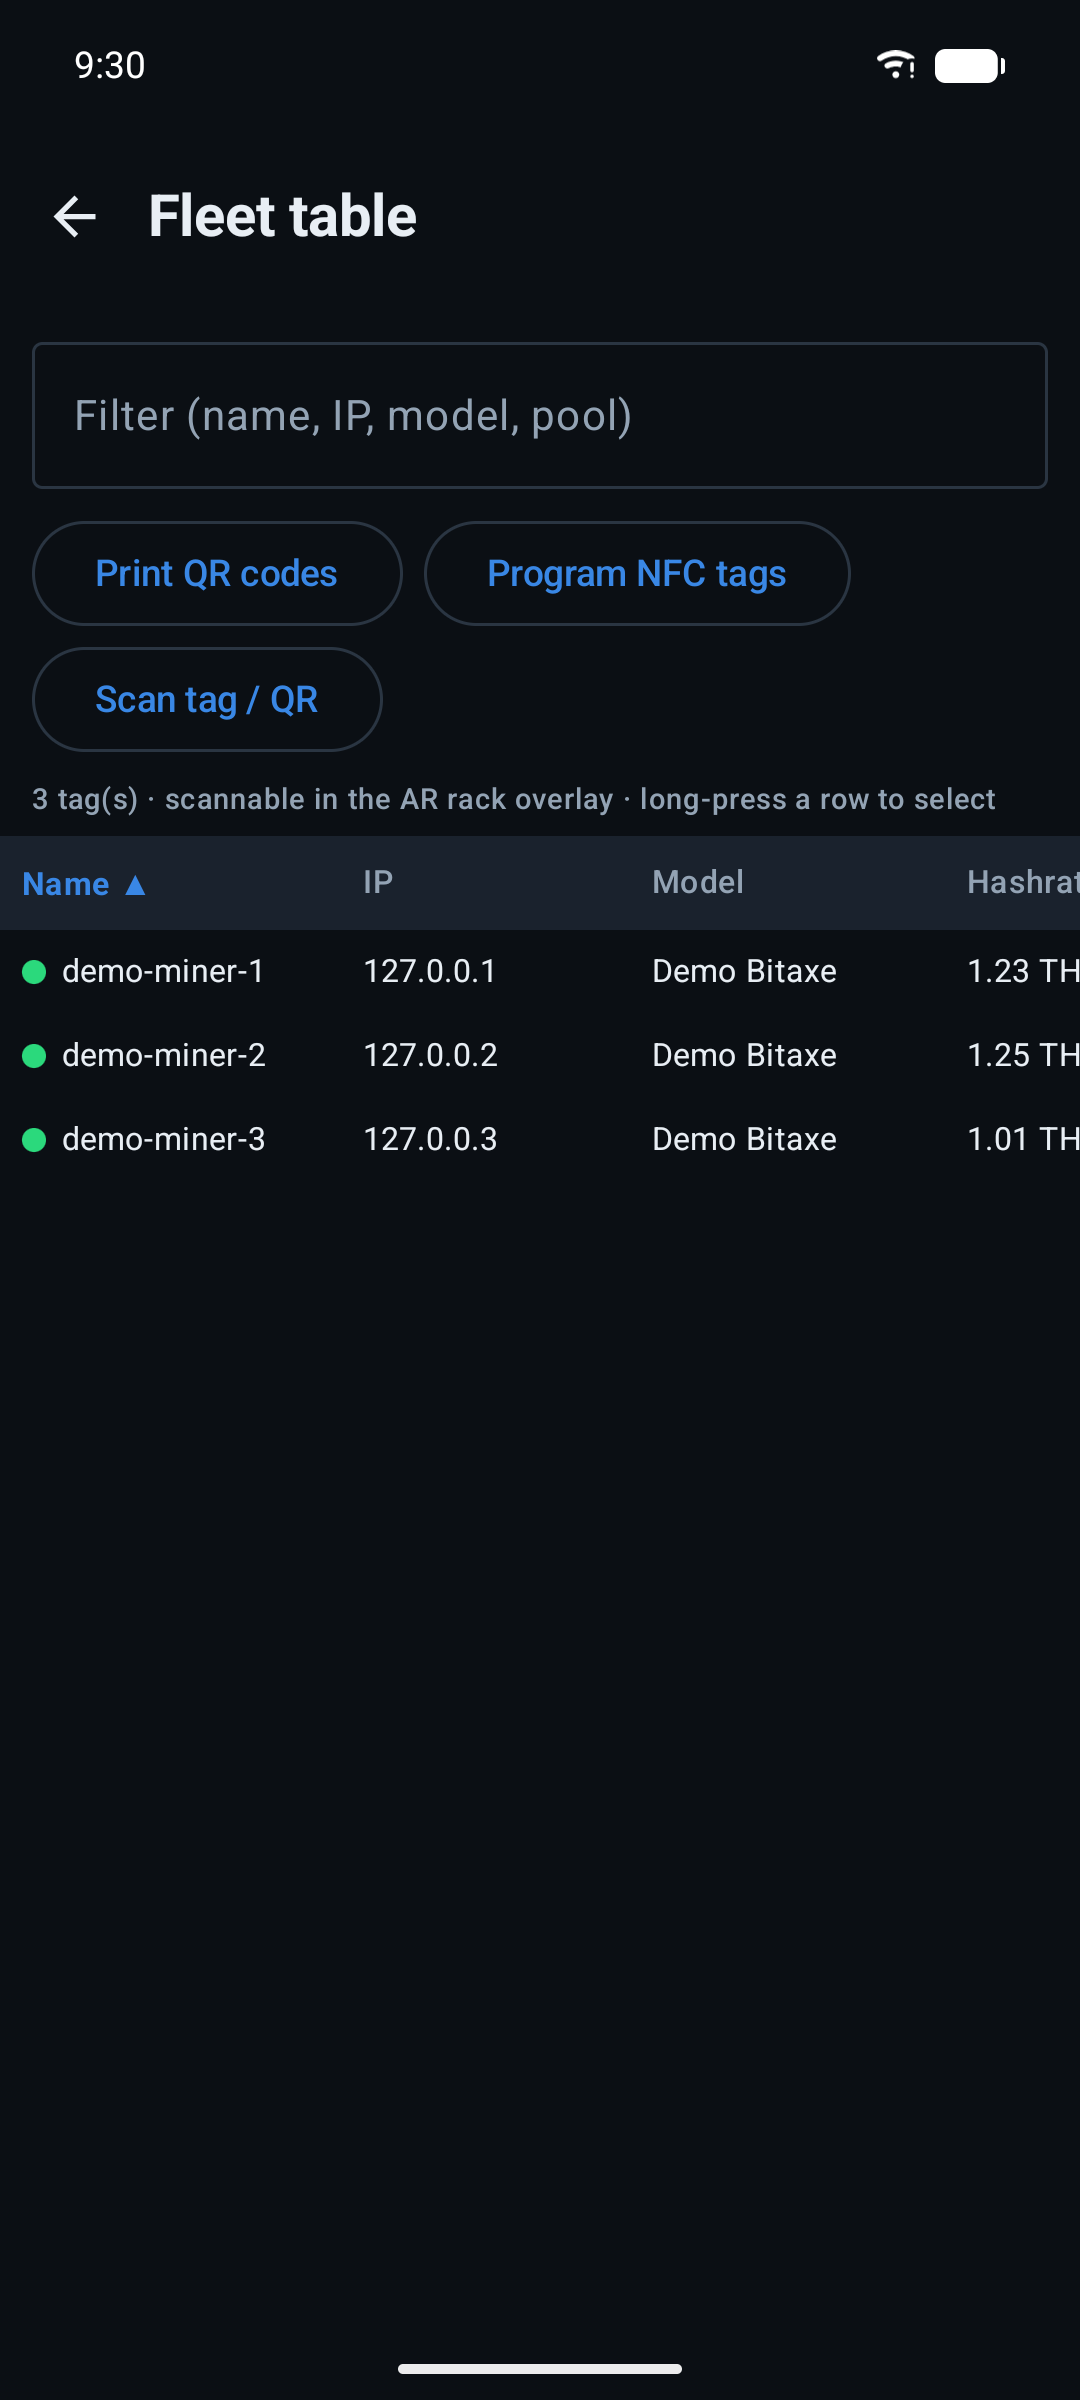
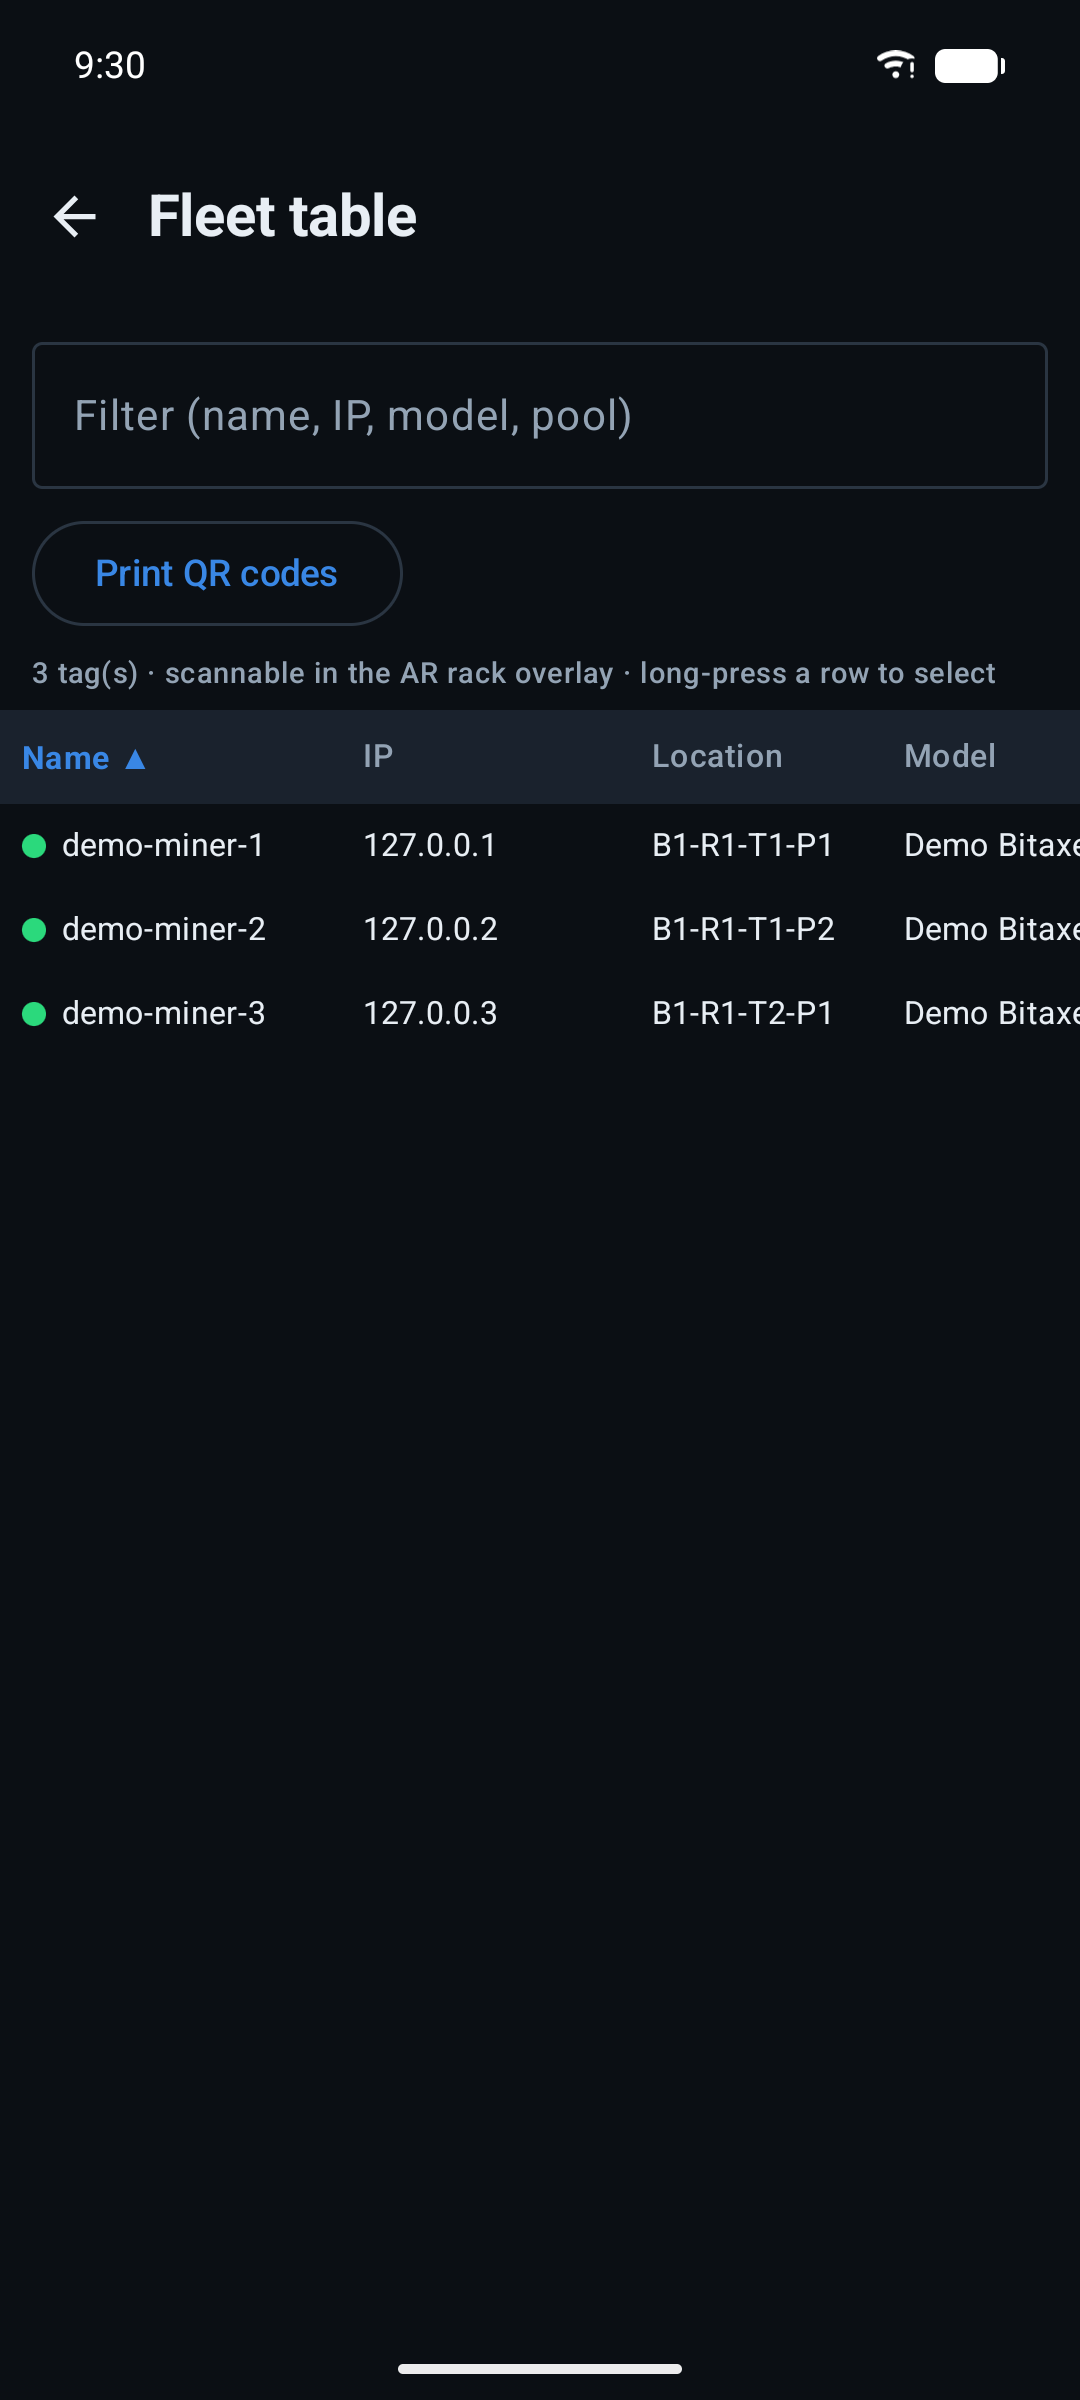
Docs: bring README, overview and product summaries up to 0.78.5
- README/OVERVIEW version lines were stuck at 0.77.6 / 0.64.0
- Document the 3D fleet view + FLIR thermal, 7 languages, Hashkit WiFi
  kit, Flow tile grid, Site Map commissioning, and the fleet-table
  Location column across README, OVERVIEW and both product summaries
- Retake the fleet-table and Flow screenshots (Location column,
  top-bar stats + block age) and add 3D fleet + FLIR thermal captures;
  README gallery regrouped to three rows

Claude-Session: https://claude.ai/code/session_01C33YF9tNp8pUTXJntCppkk

diff --git a/docs/product-summary.html b/docs/product-summary.html
@@ -46,13 +46,14 @@
         Tailscale VPN — and every reading is honestly labeled (measured, reported, calculated,
         or estimated), so an estimate is never dressed up as a fact.
       </p>
-      <p class="badges">Android 8.0+ · Optional Wear OS companion &amp; Android TV · Sideload and go.</p>
+      <p class="badges">Android 8.0+ · 7 languages · Optional Wear OS companion &amp; Android TV · Sideload and go.</p>
     </header>
 
     <h2>🔍 Find every miner, instantly</h2>
     <ul>
       <li><strong>Auto-discovery</strong> scans your subnet at launch, plus <strong>mDNS/DNS-SD</strong> — or add by IP/CIDR.</li>
       <li><strong>Farms &amp; sites</strong>: group miners by location, each with its own subnet and refresh interval, and switch between them from the dashboard.</li>
+      <li><strong>Site Map commissioning</strong> — walk a rack pressing each Antminer's IP Report button to capture slot-by-slot locations — and <strong>Hashkit WiFi kit</strong> support for on-site scanning from a pocket field AP.</li>
     </ul>
 
     <h2>📊 Monitoring that tells you the truth</h2>
@@ -62,7 +63,8 @@
       <li><strong>Per-chip / per-board health</strong> (Antminer-class): hashrate, working/dead chip counts, hardware errors and hottest-chip temp — catch a failing board before it drags the fleet down.</li>
       <li><strong>Efficiency (J/TH) trend</strong> and <strong>statistical anomaly detection</strong> that flags gradual hashrate drift or a creeping reject rate a fixed threshold would miss.</li>
       <li><strong>Profitability &amp; energy</strong>: revenue/day, power cost, net, BTC/day, kWh/day and heat — plus a <strong>Bitcoin network card</strong> (block height, subsidy, next difficulty adjustment and halving countdown).</li>
-      <li>A <strong>rack/site layout view</strong>, a <strong>wall / TV kiosk mode</strong> (Small/Medium/Large), a <strong>3D flow view</strong>, and a <strong>home-screen widget</strong>.</li>
+      <li>A <strong>3D fleet view</strong> — orbit your fleet in its racks with live per-machine stats, a drone-style Tour mode, and a one-tap <strong>FLIR thermal mode</strong> — plus an animated <strong>Flow view</strong> (single row or 2×2–8×8 tile grid).</li>
+      <li>A <strong>rack/site layout view</strong> with a live <strong>temperature heatmap</strong>, a <strong>wall / TV kiosk mode</strong> (Small/Medium/Large), and a <strong>home-screen widget</strong>.</li>
     </ul>
 
     <h2>🎛 Control — only where it's verified</h2>

diff --git a/README.md b/README.md
@@ -1,6 +1,6 @@
 # Hi3 Hashkit
 
-**Current version: 0.77.6**
+**Current version: 0.78.5**
 
 Hi3 Hashkit is a privacy-first, local-first Android app for monitoring and safely
 controlling your Bitcoin miners. It talks only to the miners on your own network — over
@@ -15,9 +15,13 @@ See `docs/` for architecture, device support, build, and security details, and
 
 All captures below use the app's built-in demo mode (synthetic miners).
 
-| Dashboard | Miner detail | Flow view | Fleet table |
-|---|---|---|---|
-| <img src="docs/screenshots/01-dashboard.png" width="200" alt="Fleet dashboard with hashrate, power, efficiency and per-miner cards"> | <img src="docs/screenshots/03-miner-detail.png" width="200" alt="Miner detail with stylized live render and hashrate history"> | <img src="docs/screenshots/04-flow.png" width="200" alt="Animated Flow view: Bitcoin network, pool and miners pipeline"> | <img src="docs/screenshots/02-fleet-table.png" width="200" alt="Sortable fleet table"> |
+| Dashboard | Miner detail | Flow view |
+|---|---|---|
+| <img src="docs/screenshots/01-dashboard.png" width="200" alt="Fleet dashboard with hashrate, power, efficiency and per-miner cards"> | <img src="docs/screenshots/03-miner-detail.png" width="200" alt="Miner detail with stylized live render and hashrate history"> | <img src="docs/screenshots/04-flow.png" width="200" alt="Animated Flow view: Bitcoin network, pool and miners pipeline"> |
+
+| 3D fleet view | FLIR thermal | Fleet table |
+|---|---|---|
+| <img src="docs/screenshots/08-3d-fleet.png" width="200" alt="3D fleet view: miners racked by location with live per-machine stats"> | <img src="docs/screenshots/09-3d-thermal.png" width="200" alt="FLIR thermal mode: ironbow palette over live chip temps with hottest-miner crosshair"> | <img src="docs/screenshots/02-fleet-table.png" width="200" alt="Sortable fleet table with rack location column"> |
 
 | Energy & profit | Site heatmap | Watchdog rules |
 |---|---|---|
@@ -33,8 +37,9 @@ All captures below use the app's built-in demo mode (synthetic miners).
 - **Live fleet dashboard** — hashrate, temps, power, efficiency and health per miner, with
   fleet totals, trend charts, per-miner sparklines, search, and Large/Medium/Compact/Grid
   layouts.
-- **Sortable fleet table** — a dense, spreadsheet-style view (name·IP·model·hashrate·temp·
-  fan·pool·uptime·J/TH) with tap-to-sort columns and a filter box.
+- **Sortable fleet table** — a dense, spreadsheet-style view (name·IP·location·model·
+  hashrate·temp·fan·pool·uptime·J/TH) with tap-to-sort columns, a filter box, and
+  long-press multi-select for bulk actions.
 - **Per-chip / per-chain health** — for Antminer-class miners, a per-board table with
   hashrate, working/dead chip counts, hardware errors and hottest-chip temp.
 - **Efficiency (J/TH) trend chart** and **statistical anomaly detection** (gradual hashrate
@@ -42,8 +47,14 @@ All captures below use the app's built-in demo mode (synthetic miners).
 - **Profitability & energy** — estimated revenue, power cost, net, BTC/day, kWh/day and
   heat, plus a **Bitcoin network card** (block height, subsidy, next difficulty adjustment
   and halving countdown).
+- **Animated Flow view** — the Bitcoin network → pool → miners pipeline with live share
+  particles, as a single row or a 2×2–8×8 tile grid.
+- **3D fleet view** — orbit the whole fleet in real or virtual racks (2×2–8×8), fans
+  spinning on both ends of every machine with live hashrate and chip temp, a drone-style
+  **Tour** mode, and a one-tap **FLIR thermal mode** (ironbow / white-hot over live chip
+  temps with a crosshair on your hottest miner).
 - **Multiple farms/sites**, a **rack/site layout view**, a **wall / TV kiosk mode**
-  (Small/Medium/Large), a 3D **Flow view**, and a home-screen widget.
+  (Small/Medium/Large), and a home-screen widget.
 
 **Control & automation (where verified)**
 - **Safe controls** — reboot, pool change, fan and firmware-bounded tuning, each with
@@ -68,6 +79,12 @@ All captures below use the app's built-in demo mode (synthetic miners).
 - **Wear OS tile** showing fleet hashrate/status, themed to your app accent.
 
 **Platform & privacy**
+- **7 languages** — English, Spanish, Chinese (Simplified), Russian, German, French and
+  Brazilian Portuguese; pick per-app in Settings → Display (or System Settings → App
+  languages on Android 13+), applied instantly.
+- **Hashkit WiFi kit** (Settings → Hashkit WiFi) — support for the pocket field AP: save
+  the kit passphrase, add the network to your phone, print a Wi-Fi join QR, and verify
+  you're on the miner subnet (with a static-IP fix hint when the site LAN has no DHCP).
 - **Local-first & private** — nothing leaves the device except requests to your configured
   miners and strictly opt-in, off-by-default integrations (see Privacy below).
 - **Encrypted at rest** — per-miner admin passwords/tokens are stored with the Android

diff --git a/docs/OVERVIEW.md b/docs/OVERVIEW.md
@@ -6,9 +6,10 @@ No account. No cloud. No telemetry. It talks only to the miners on **your** netw
 (LAN or Tailscale), and every reading is honestly labeled — measured, reported,
 calculated, or estimated — so an estimate is never dressed up as a fact.
 
-**Android 8.0+. Sideload and go.**
+**Android 8.0+. Sideload and go. Speaks 7 languages** — English, Spanish, Chinese
+(Simplified), Russian, German, French and Brazilian Portuguese, switchable per-app.
 
-Current release: **v0.64.0**.
+Current release: **v0.78.5**.
 
 ## 🔍 Find Every Miner, Instantly
 
@@ -16,14 +17,20 @@ Current release: **v0.64.0**.
   by IP/CIDR, or drive the dedicated Network Scan screen yourself.
 - **Farms & sites**: group miners by location, each with its own subnet and refresh
   interval, and flip between them with the dashboard farm switcher.
+- **Site Map commissioning**: walk a rack pressing each Antminer's IP Report button and
+  Hashkit captures slot-by-slot locations (with API enrichment and CSV export).
+- **Hashkit WiFi kit** (Settings → Hashkit WiFi): pocket field-AP support — save the kit
+  passphrase, add the network to your phone, print a join QR, and verify you're on the
+  miner subnet.
 
 ## 📊 Monitoring That Tells You the Truth
 
 - **Live fleet dashboard**: hashrate, temps, power, efficiency, and health per miner —
   plus fleet totals, trend charts, per-miner sparklines, search, and four layout
   densities from Large to Grid.
-- **Sortable fleet table**: a dense, spreadsheet-style view with tap-to-sort columns and
-  a filter box for when you pass a handful of miners.
+- **Sortable fleet table**: a dense, spreadsheet-style view (including each miner's rack
+  location) with tap-to-sort columns, a filter box, and long-press multi-select for bulk
+  actions.
 - **Per-chip / per-chain health** (Antminer-class): a per-board table with hashrate,
   working/dead chip counts, hardware errors and hottest-chip temp — catch a failing board
   before it drags the fleet down.
@@ -31,8 +38,13 @@ Current release: **v0.64.0**.
   gradual hashrate drift or a creeping reject rate a fixed threshold would miss.
 - **Bitcoin network card**: block height, subsidy, next difficulty-adjustment estimate and
   halving countdown.
-- A dedicated **Fleet page**, a **rack/site layout view**, a **wall / TV kiosk mode**
-  (Small/Medium/Large), a slick **3D flow view**, and a **home-screen widget**.
+- An animated **Flow view** — the Bitcoin network → pool → miners pipeline with live
+  share particles, as a single row or a 2×2–8×8 tile grid.
+- A **3D fleet view**: orbit your fleet in real or virtual racks, live hashrate and chip
+  temp painted on every spinning-fan machine, a drone-style **Tour** mode, and a one-tap
+  **FLIR thermal mode** (ironbow / white-hot over live chip temps).
+- A dedicated **Fleet page**, a **rack/site layout view** with a live **temperature
+  heatmap**, a **wall / TV kiosk mode** (Small/Medium/Large), and a **home-screen widget**.
 - **Honest offline/stale states** with a redacted raw-response viewer — never a stale
   number pretending to be live.
 - **Local history** with configurable retention, downsampling, **CSV export**, and full

diff --git a/docs/PRODUCT_SUMMARY.md b/docs/PRODUCT_SUMMARY.md
@@ -9,7 +9,7 @@ Antminers. No account. No cloud. No analytics. No ads. It talks only to the mine
 labeled (measured, reported, calculated, or estimated), so an estimate is never dressed up
 as a fact.
 
-**Android 8.0+ · Optional Wear OS companion & Android TV · Sideload and go.**
+**Android 8.0+ · 7 languages · Optional Wear OS companion & Android TV · Sideload and go.**
 
 ---
 
@@ -17,6 +17,9 @@ as a fact.
 - **Auto-discovery** scans your subnet at launch, plus **mDNS/DNS-SD** — or add by IP/CIDR.
 - **Farms & sites**: group miners by location, each with its own subnet and refresh
   interval, and switch between them from the dashboard.
+- **Site Map commissioning** — walk a rack pressing each Antminer's IP Report button to
+  capture slot-by-slot locations — and **Hashkit WiFi kit** support for on-site scanning
+  from a pocket field AP.
 
 ## 📊 Monitoring that tells you the truth
 - **Live fleet dashboard**: hashrate, temps, power, efficiency and health per miner — plus
@@ -31,8 +34,11 @@ as a fact.
 - **Profitability & energy**: revenue/day, power cost, net, BTC/day, kWh/day and heat — plus
   a **Bitcoin network card** (block height, subsidy, next difficulty adjustment and halving
   countdown).
-- A **rack/site layout view**, a **wall / TV kiosk mode** (Small/Medium/Large), a **3D flow
-  view**, and a **home-screen widget**.
+- A **3D fleet view** — orbit your fleet in its racks with live per-machine stats, a
+  drone-style Tour mode, and a one-tap **FLIR thermal mode** — plus an animated **Flow
+  view** (single row or 2×2–8×8 tile grid).
+- A **rack/site layout view** with a live **temperature heatmap**, a **wall / TV kiosk
+  mode** (Small/Medium/Large), and a **home-screen widget**.
 
 ## 🎛 Control — only where it's verified
 Every control ships only after verification against real firmware. Unverified means
